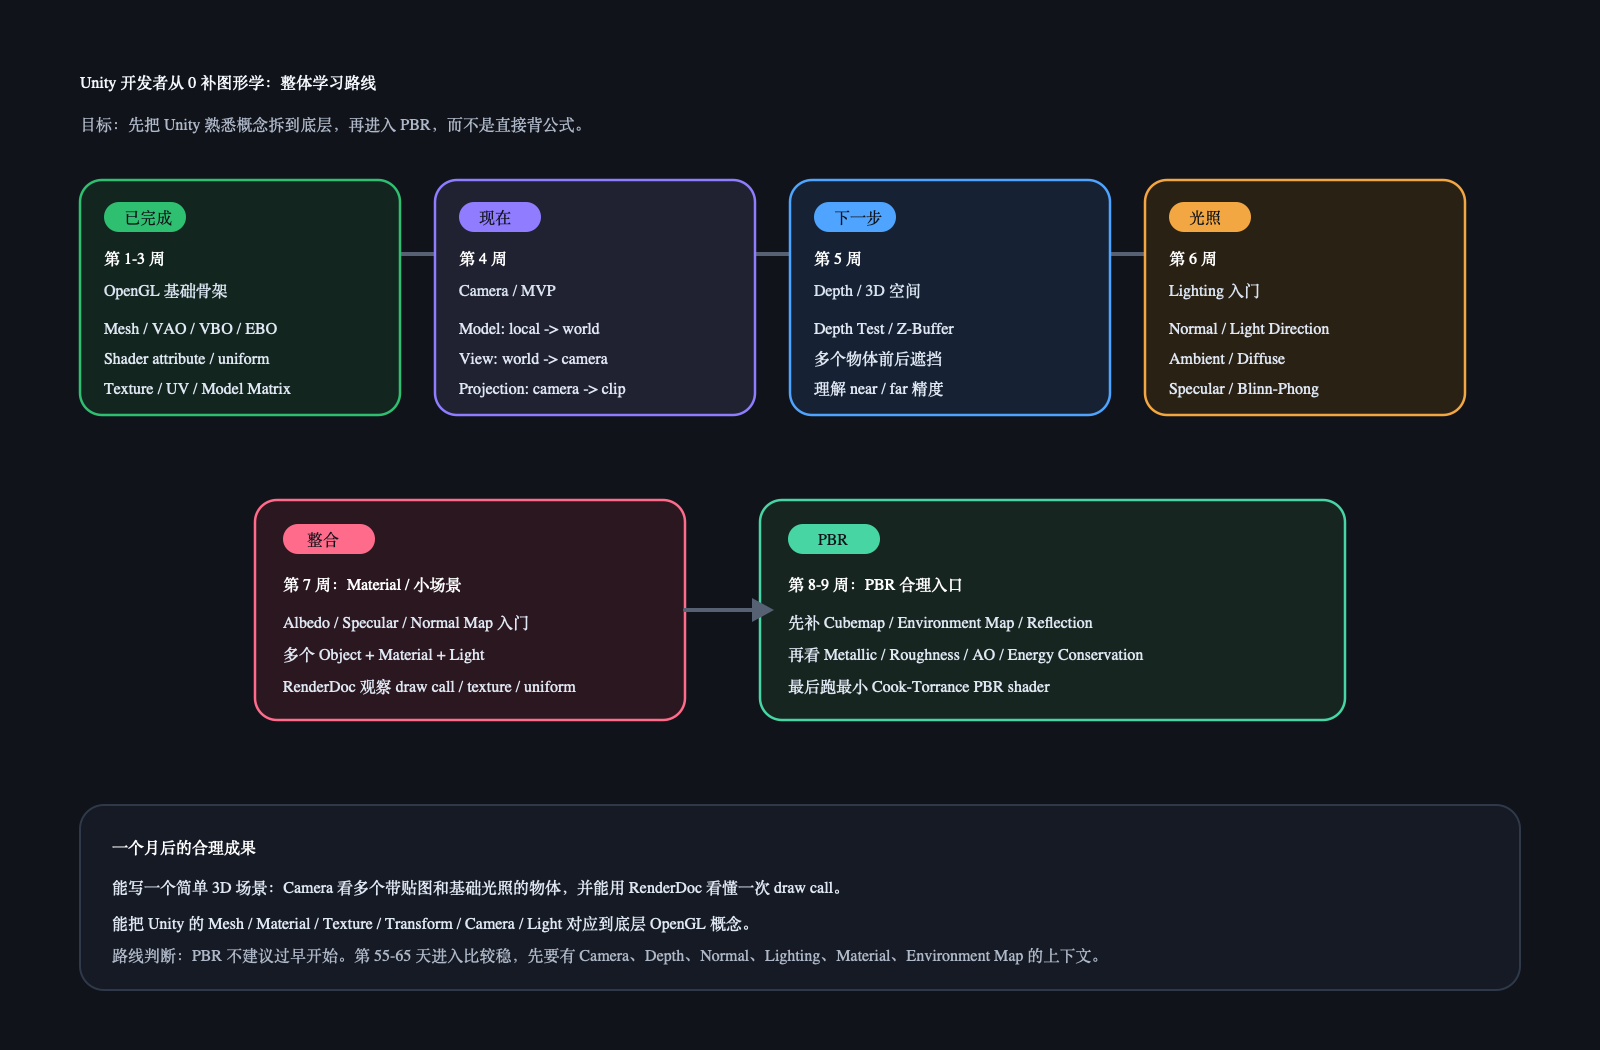
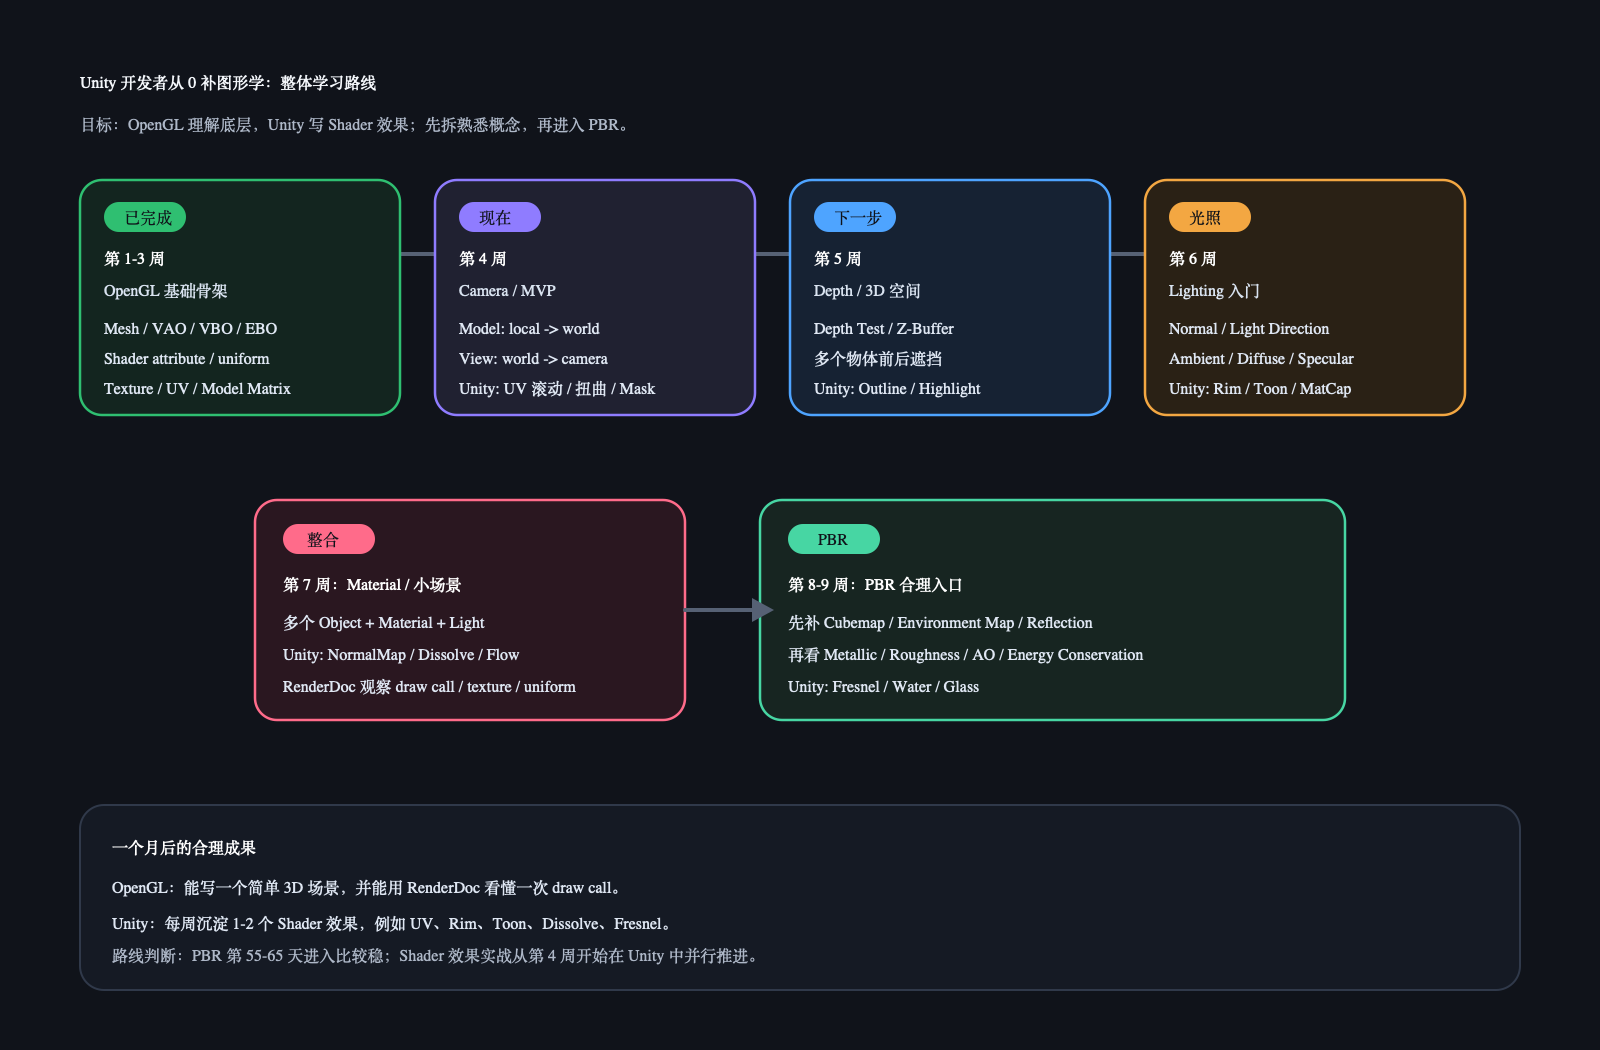
Add Unity shader practice roadmap

diff --git a/notes/roadmap/opengl-learning-mindmap.md b/notes/roadmap/opengl-learning-mindmap.md
@@ -1,0 +1,87 @@
+# OpenGL / Unity Shader 学习脑图
+
+```mermaid
+mindmap
+  root((Unity 开发者从 0 补图形学))
+    学习策略
+      每天 1 个核心概念
+      每天 1 小时最小闭环
+      每 7 天周总结
+      OpenGL 理解底层
+      Unity 写 Shader 效果
+    第 1-3 周 已完成基础
+      OpenGL 基础管线
+        GLFW / Context
+        VAO / VBO / EBO
+        Shader attribute / uniform
+        Draw Call
+      Texture / UV
+        图片上传
+        sampler2D
+        Wrapping / Filtering
+      Transform
+        Translate
+        Rotate
+        Scale
+        Model Matrix
+        Local -> World
+    第 4 周 Camera / MVP
+      OpenGL
+        Model
+        View
+        Projection
+        3D Cube
+      Unity Shader
+        UV 滚动
+        UV 扭曲
+        Mask
+    第 5 周 Depth / 3D
+      OpenGL
+        Depth Test
+        Z-Buffer
+        near / far
+      Unity Shader
+        Outline
+        Highlight
+        深度观察
+    第 6 周 Lighting
+      OpenGL
+        Normal
+        Ambient
+        Diffuse
+        Specular
+      Unity Shader
+        Rim Light
+        Toon Ramp
+        MatCap
+    第 7 周 Material / 小场景
+      OpenGL
+        多 Object
+        多 Material
+        RenderDoc
+      Unity Shader
+        Normal Map
+        Emission
+        Dissolve
+        Flow Map
+    第 8-9 周 PBR 入口
+      OpenGL
+        Cubemap
+        Environment Map
+        Metallic
+        Roughness
+        Cook-Torrance
+      Unity Shader
+        Fresnel
+        Water
+        Glass
+    PBR 以后
+      IBL
+      Shadow
+      HDR / Tone Mapping
+      Post Processing
+      Deferred Rendering
+      Transparent / Blending
+      性能 / RenderDoc / Frame Debugger
+      URP / HDRP 对照
+```

diff --git a/notes/learning_todo.md b/notes/learning_todo.md
@@ -18,7 +18,16 @@
 
 ## 整体路线
 
-目标不是把 LearnOpenGL 每一页硬啃完，而是按 Unity 开发者最容易建立迁移关系的顺序推进：
+目标不是把 LearnOpenGL 每一页硬啃完，而是按 Unity 开发者最容易建立迁移关系的顺序推进。
+
+从第 4 周开始使用“双线计划”：
+
+```text
+OpenGL 线：理解底层渲染管线、数据、状态、矩阵、光照。
+Unity Shader 线：把可见效果实战写在 Unity 里，沉淀成项目能复用的 shader demo。
+```
+
+OpenGL 主线：
 
 ```text
 OpenGL 基础管线
@@ -30,6 +39,17 @@ OpenGL 基础管线
 -> Material / 小场景
 -> Cubemap / Environment
 -> PBR
+```
+
+Unity Shader 实战线：
+
+```text
+UV 动画 / 遮罩
+-> Rim Light / Toon / MatCap
+-> Normal Map / Dissolve / Flow
+-> Fresnel / Water / Glass
+-> Bloom / Outline / Fullscreen Effect
+-> Shield / Fire / Transparent Effect
 ```
 
 ## 阶段计划
@@ -90,6 +110,8 @@ projection: camera -> clip / NDC
 
 最小产出：画一个 3D cube，用 camera 观察它。
 
+Unity Shader 实战：UV 滚动、UV 扭曲、圆形遮罩。重点对应 Unity 里的 `_Time`、Tiling / Offset、Mask。
+
 ### 第 5 周：Depth / 3D 空间
 
 目标：理解多个 3D 物体为什么能正确前后遮挡。
@@ -102,6 +124,8 @@ near / far
 ```
 
 最小产出：多个 cube 在不同深度位置显示，并能解释谁挡住谁。
+
+Unity Shader 实战：边缘高亮、简单 Outline、深度相关观察。重点先建立“屏幕上的遮挡和深度有关”的直觉。
 
 ### 第 6 周：Lighting 入门
 
@@ -118,6 +142,8 @@ Blinn-Phong
 
 最小产出：一个 cube 在光照下随角度变化出现明暗。
 
+Unity Shader 实战：Lambert、Half-Lambert、Blinn-Phong、Rim Light、Toon Ramp、MatCap。
+
 ### 第 7 周：Material / 小场景整合
 
 目标：把 Mesh、Texture、Shader、Transform、Camera、Light 放到一个小场景里。
@@ -130,6 +156,8 @@ RenderDoc 观察 draw call
 ```
 
 最小产出：一个简单 3D 场景，可以用 RenderDoc 看懂一次 draw call 里的 buffer、texture、uniform。
+
+Unity Shader 实战：Normal Map、Emission、Dissolve、Flow Map、Detail Texture。
 
 ### 第 8-9 周：PBR 合理入口
 
@@ -147,6 +175,37 @@ Cook-Torrance 最小结构
 
 最小产出：跑通一个最小 PBR shader，先理解参数和画面变化，不急着推完整公式。
 
+Unity Shader 实战：Metallic / Roughness 调参球、Fresnel、简单水面、简单玻璃。
+
+### PBR 之后：现代渲染效果线
+
+目标：从“会写一个材质模型”进入“理解现代渲染器怎么组织画面”。
+
+```text
+IBL / Environment
+-> Shadow
+-> HDR / Tone Mapping
+-> Post Processing
+-> Deferred Rendering
+-> Transparent / Blending
+-> Performance / RenderDoc / Unity Frame Debugger
+-> URP / HDRP 对照
+```
+
+Unity Shader 实战继续放在 Unity 项目里写：
+
+```text
+Bloom
+Outline
+Fullscreen Blur
+Edge Detection
+Shield
+Fire
+Water
+Glass
+大量物体 Instancing
+```
+
 ## PBR 时间判断
 
 PBR 建议在第 55-65 天左右开始。原因是它依赖这些前置概念：
@@ -162,6 +221,19 @@ Cubemap / Environment Map
 ```
 
 过早学 PBR 容易变成背公式；先把场景、光照、材质和环境贴图走通，理解会稳很多。
+
+PBR 之后继续学：
+
+```text
+第 10 周：IBL / 环境光照
+第 11 周：Shadow / 阴影
+第 12 周：HDR / Tone Mapping / Gamma
+第 13 周：Post Processing / 后处理
+第 14 周：Deferred Rendering / 延迟渲染
+第 15 周：Transparent / Blending / 排序
+第 16 周：性能、Instancing、RenderDoc / Unity Frame Debugger
+第 17 周以后：URP / HDRP 源码和实际项目对照
+```
 
 ## 周总结节奏
 
@@ -187,3 +259,5 @@ Cubemap / Environment Map
 - 如果当天是第 7 天、第 14 天这类节点，优先做周总结。
 - 每个新 demo 默认包含 `README.md`、`CMakeLists.txt`、`run.sh`、`src/main.cpp`。
 - 复盘图片、截图、卡片按课程放到 `notes/recaps/dayXX_*` 目录。
+- OpenGL demo 继续放在 `demos/NN_topic`。
+- Shader 效果实战默认在 Unity 里写；本仓库只记录计划、复盘、截图和必要的 shader 笔记，除非后续创建独立 Unity 工程目录。

diff --git a/notes/roadmap/README.md b/notes/roadmap/README.md
@@ -8,18 +8,43 @@
 
 - [可编辑 SVG 源文件](opengl-learning-roadmap.svg)
 
+## 脑图版本
+
+![OpenGL / Unity Shader 学习脑图](opengl-learning-mindmap.png)
+
+- [Mermaid 脑图源码](opengl-learning-mindmap.md)
+- [可编辑 SVG 脑图](opengl-learning-mindmap.svg)
+
 ## 阶段计划
+
+从第 4 周开始采用双线：
+
+- OpenGL 线：理解底层管线、状态、矩阵、光照、材质。
+- Unity Shader 线：Shader 效果实战都在 Unity 里写，方便沉淀成项目可复用效果。
 
 | 阶段 | 主题 | 最小产出 |
 |------|------|----------|
 | 第 1 周 | OpenGL 基础管线 | 跑通三角形，看懂 VAO / VBO / Shader / Draw Call |
 | 第 2 周 | Texture / UV | 画出带贴图矩形，理解 UV、Sampler、Wrapping、Filtering |
 | 第 3 周 | Transform / Model Matrix | 对应 Unity position / rotation / scale |
-| 第 4 周 | Camera / MVP | 画 3D cube，用 camera 观察 |
-| 第 5 周 | Depth / 3D 空间 | 多个物体前后遮挡正确 |
-| 第 6 周 | Lighting | 用法线和光方向做基础明暗 |
-| 第 7 周 | Material / 小场景 | Mesh、Material、Texture、Light、Camera 整合 |
-| 第 8-9 周 | PBR 入口 | Cubemap / Environment 后进入最小 PBR shader |
+| 第 4 周 | Camera / MVP + Unity UV 效果 | 画 3D cube；Unity 写 UV 滚动 / 扭曲 / Mask |
+| 第 5 周 | Depth / 3D 空间 + Unity 边缘效果 | 多物体遮挡；Unity 写 Outline / Highlight |
+| 第 6 周 | Lighting + Unity 光照效果 | 基础明暗；Unity 写 Rim / Toon / MatCap |
+| 第 7 周 | Material / 小场景 + Unity 材质效果 | 小场景整合；Unity 写 NormalMap / Dissolve / Flow |
+| 第 8-9 周 | PBR 入口 + Unity PBR 效果 | Cubemap / Environment 后进入 PBR；Unity 写 Fresnel / Water / Glass |
+
+## PBR 之后
+
+| 阶段 | 主题 | Unity 实战 |
+|------|------|------------|
+| 第 10 周 | IBL / 环境光照 | 金属反射、Reflection Probe 对照 |
+| 第 11 周 | Shadow / 阴影 | 阴影偏移、软阴影观察 |
+| 第 12 周 | HDR / Tone Mapping | Bloom、曝光、线性空间对照 |
+| 第 13 周 | Post Processing | Blur、Edge Detection、Fullscreen Effect |
+| 第 14 周 | Deferred Rendering | GBuffer、多光源观察 |
+| 第 15 周 | Transparent / Blending | Glass、Shield、Fire |
+| 第 16 周 | 性能 / GPU 调试 | Instancing、Overdraw、Frame Debugger |
+| 第 17 周以后 | URP / HDRP 对照 | RenderFeature、Pass、Shader Graph 生成代码 |
 
 ## PBR 时间判断
 
@@ -30,5 +55,5 @@ PBR 合理开始点：第 55-65 天左右。
 ## 一句话版本
 
 ```text
-先把 Mesh / Texture / Transform / Camera / Light / Material 这些 Unity 熟悉概念拆到底层，再进入 PBR。
+OpenGL 负责拆底层，Unity 负责写 Shader 效果；先把 Mesh / Texture / Transform / Camera / Light / Material 走通，再进入 PBR 和现代渲染效果。
 ```

diff --git a/README.md b/README.md
@@ -14,13 +14,19 @@
 1. 第 1 周：OpenGL 基础管线，理解 VAO / VBO / Shader / Draw Call。
 2. 第 2 周：Texture / UV，理解图片如何变成 fragment shader 的颜色。
 3. 第 3 周：Transform / Model Matrix，对应 Unity 的 position / rotation / scale。
-4. 第 4 周：Camera / MVP，对应 Unity Camera。
-5. 第 5 周：Depth / 3D 空间，理解前后遮挡和 z-buffer。
-6. 第 6 周：Lighting，理解 normal、diffuse、specular。
-7. 第 7 周：Material / 小场景，把 Mesh、Texture、Shader、Transform、Camera、Light 整合起来。
-8. 第 8-9 周：PBR 入口，先补 Cubemap / Environment，再进入 metallic / roughness / Cook-Torrance。
+4. 第 4 周：Camera / MVP，对应 Unity Camera；Unity 里写 UV 滚动、UV 扭曲、Mask。
+5. 第 5 周：Depth / 3D 空间，理解前后遮挡和 z-buffer；Unity 里写 Outline / Highlight。
+6. 第 6 周：Lighting，理解 normal、diffuse、specular；Unity 里写 Rim / Toon / MatCap。
+7. 第 7 周：Material / 小场景，把 Mesh、Texture、Shader、Transform、Camera、Light 整合起来；Unity 里写 NormalMap / Dissolve / Flow。
+8. 第 8-9 周：PBR 入口，先补 Cubemap / Environment，再进入 metallic / roughness / Cook-Torrance；Unity 里写 Fresnel / Water / Glass。
+9. PBR 以后：IBL、Shadow、HDR、Post Processing、Deferred、Transparent、性能调试、URP / HDRP 对照。
 
 核心原则：先会用，再理解；先看到结果，再补原理。
+
+从第 4 周开始采用双线：
+
+- OpenGL 线：继续理解底层管线和渲染原理。
+- Unity Shader 线：Shader 效果实战都在 Unity 里写，便于直接迁移到项目。
 
 ## Q&A 记录规则
 
@@ -56,6 +62,10 @@
 ### Q: 什么时候能学到 PBR？
 
 A: 按当前节奏，PBR 建议在第 55-65 天左右开始。先完成 Camera / MVP、Depth、基础光照、Material、小场景和 Cubemap / Environment Map，再进入 PBR 会更稳。过早学 PBR 容易变成背公式；晚一点进入，才能把 `albedo / metallic / roughness / ao` 和真实渲染管线对应起来。
+
+### Q: Shader 效果实战在哪里写？
+
+A: Shader 效果实战放到 Unity 里写。OpenGL demo 继续用来理解底层管线；Unity demo 用来实现 UV 动画、Rim、Toon、Dissolve、Flow、Fresnel、Water、Glass、Bloom、Outline、Shield 等可见效果。
 
 ## Framework
 